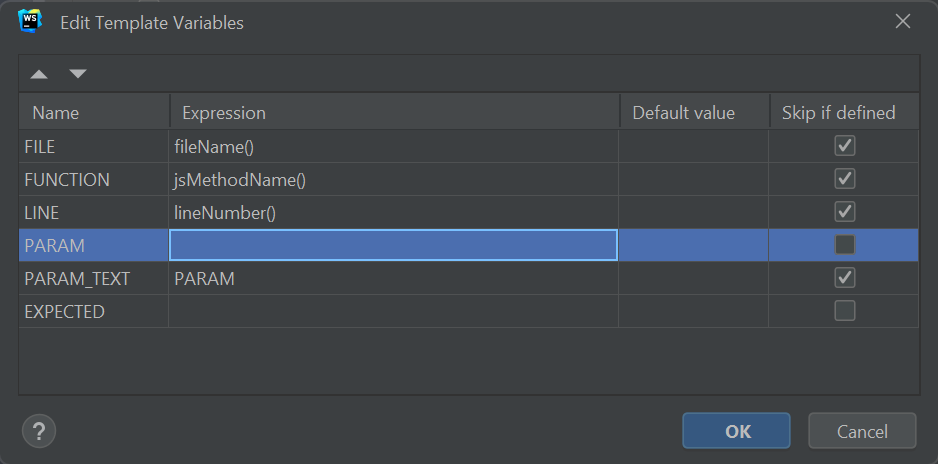
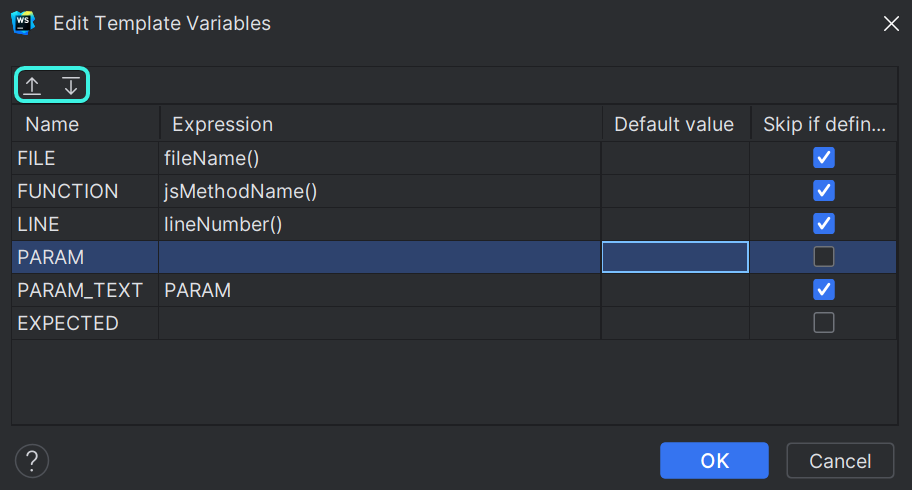
feat: 1a update to 515

diff --git a/src/content/2/en/part2a.md b/src/content/2/en/part2a.md
@@ -7,33 +7,37 @@ lang: en
 
 <div class="content">
 
-Before starting a new part, let's recap some of the topics that proved difficult last year.
+Before starting a new part, let's add some additional tools to our IDE and quickly remind ourselves about arrays and event handlers.
+For now you can continue by opening up the previous lab that we used in part 1.
 
-### Pro-tip: WebStorm Live Templates
+### New Tool: WebStorm Live Templates
 
-With WebStorm it's easy to create and 'live templates', i.e., shortcuts/snippets
+With WebStorm it's easy to create and ***live templates***, i.e., shortcuts/snippets
 for quickly generating commonly re-used portions of code, much like how `sout` works in NetBeans and `psvm` works in IntelliJ.
 
 **Try erasing everything in *App.jsx*, then type `rsc` and then hit the *Tab* key and see the magic that appears!**
 
 Instructions for working with live templates can be found [here](https://blog.jetbrains.com/webstorm/2018/01/using-and-creating-code-snippets/#work_with_live_templates).
+The main idea is that in certain contexts, you would be able to type a shortcut, and WebStorm will provide you with some code that you would normally write.
 
 There are already lots of live templates that are available for you to review in ***Settings->Editor->Live Templates***.
+Specifically, you can find the ***rsc*** template in the React section.
+You should also peruse the React hooks section to see things like *useState*.
 
-Another live template for the `console.log()` command, which is, **log**.
+One popular live template/shortcut is **`log`**, which replaces having to type out `console.log()`.
 
-To use it, type `log` and hit Tab to autocomplete.
+To use it, type `log` and hit ***Tab*** to autocomplete.
 
-Though it doesn't stop there, as you can make *custom live templates*.
+Though it doesn't stop there, as you can make **custom live templates**.
 
 For example, I'm going to take
 [this tutorial](https://betterprogramming.pub/intellij-live-template-for-console-log-that-will-improve-your-daily-development-life-ef1320a8fe81)
-and boil it down to its essence.
+and reduce it to its essence and apply it to our new template.
 
 Let's setup a custom `clog` live template.
 
 1. Go to ***Settings->Editor->Live Templates***
-2. With Javascript Selected, click on the `+` icon.
+2. With Javascript Selected, click on the `+` icon, and select *1 Live Template*
 3. Type `clog` for the Abbreviation and `More detailed console.log` for the Description
 4. Paste this in the template text:
 
@@ -43,19 +47,24 @@ Let's setup a custom `clog` live template.
 
 5. Select ***Reformat according to style***
 6. Click the Define link below the template text and select ***Javascript & Typescript***.
-7. Finally click edit variables and make it looks like this, make sure you have the order of the variables as well.
+7. Finally, click edit variables and make it looks like this, make sure you have the order of the variables as well, where `PARAM` comes first.
+    1. Use the up and down buttons highlighted to move the sequence of the variables.
 
 ![image showing the variables and values](../../images/2/custom/live_template_variables.png)
 
-Click ***OK*** twice and then try it out by typing `clog` and then ***Tab***.
+Click ***OK*** twice and then try it out by typing `clog` inside your `App` Javascript function and then ***Tab***.
+Then type the name of the variable `props` (or whatever other variable you have) and Tab again.
+You should notice that it will display the word you typed in two places on that line.
+First, the name that shows up in log statement and then as the variable to print.
+Finally, if you have some expected value of what you think it should be at that point, you can type that in as well, and then ***Tab*** one last time.
 You'll notice that you have this template that will provide you with a function name and line number
 as well as other neat values to make it easier to debug!
 
 ### JavaScript Arrays
 
-From here on out, we will be using the functional programming methods of the JavaScript
-[array](https://developer.mozilla.org/en-US/docs/Web/JavaScript/Reference/Global_Objects/Array),
-such as `find`, `filter`, and `map` - all of the time.
+From here on out, we will be using JavaScript's functional programming conventions (e.g. `find`, `filter`, and `map`) for
+[**Arrays**](https://developer.mozilla.org/en-US/docs/Web/JavaScript/Reference/Global_Objects/Array),
+all of the time.
 They operate on the same general principles as their equivalents in other languages and as streams in Java.
 
 If operating arrays with functional operators makes you feel uneasy, it is worth watching at least the first three parts of the YouTube video series
@@ -133,10 +142,14 @@ ReactDOM.createRoot(document.getElementById('root')).render(
 )
 ```
 
-Every task contains its textual content and a timestamp,
-as well as a `boolean` value for marking whether the task has been categorized as important or not, and also a unique `id`.
+Every task contains:
 
-The example above works because there are exactly three tasks in the array.
+- a unique `id`.
+- *`content`* describing the task
+- a *`date`*,
+- a boolean for marking whether the task is `important`
+
+The example above works only because there are exactly three tasks in the array.
 
 A single task is rendered by accessing the objects in the array by referring to a hard-coded index number:
 
@@ -208,13 +221,16 @@ const App = (props) => {
 
 ### Key-attribute
 
-Even though the application seems to be working, there is a warning in the console:
+Even though the application seems to be working, there is a warning in both WebStorm:
+
+![WebStorm key prop error](../../images/2/1a_webstorm.png)
+
+and the console:
 
 ![unique key prop console error](../../images/2/1a.png)
 
 As the linked [React page](https://react.dev/learn/rendering-lists#keeping-list-items-in-order-with-key) in the error message suggests;
 the list items, i.e. the elements generated by the `map` method, must each have a unique key value: an attribute called **key**.
-> **FYI:** *You may have also noticed that ESLint had underlined the `li` element in WebStorm as well, mentioning the missing 'key' prop.*
 
 Let's add the keys:
 
@@ -280,9 +296,9 @@ const result = tasks.map(task => task.id)
 console.log(result)
 ```
 
-`[1, 2, 3]`  will be printed to the console.
- `map` always creates a new array, the elements of which have been created from the elements of the original array by ***mapping***:
- using the function given as a parameter to the `map` method.
+An array `[1, 2, 3]`  will be viewable in the console.
+`map` always creates a new array, the elements of which have been created from the elements of the original array by ***mapping***:
+using the function given as a parameter to the `map` method.
 
 The function in our example is:
 
@@ -307,7 +323,7 @@ Changing our `map` line to have the parameter:
 const result = tasks.map(task => task.content)
 ```
 
-results in the console printing *`['Wash the dishes', 'Take out the trash', 'Buy salty snacks']`*.
+results in the console containing the array *`['Wash the dishes', 'Take out the trash', 'Buy salty snacks']`*.
 
 This is already pretty close to the React code we used:
 
@@ -328,7 +344,8 @@ task => <li key={task.id}>{task.content}</li>
 ```
 
 is used to create view elements, the value of the variable must be rendered inside curly braces.
-Try to see what happens if the braces are removed.
+***What happens if one or more of the braces are removed?***
+Play around with removing and re-adding braces for the task in *App.jsx*.
 
 The use of curly braces will cause some pain in the beginning, but you will get used to them soon enough.
 The visual feedback from React is immediate.
@@ -356,7 +373,7 @@ As such, one way to define the row generation without getting errors is:
 </ul>
 ```
 
-This is, however, **not recommended** and can create undesired problems even if it seems to be working just fine.
+This is, however, 🐞 **not recommended** 🐞 and can create undesired problems even if it seems to be working just fine.
 
 Read more about this in [this article](https://robinpokorny.medium.com/index-as-a-key-is-an-anti-pattern-e0349aece318).
 
@@ -413,7 +430,7 @@ const App = ({ tasks }) => {
 }
 ```
 
-Notice that the `key` attribute must now be defined for the `Task` components, and not in the `li` tags like before.
+Notice that the `key` attribute *must now be defined in the `Task` component*, and not in the `li` tags like before.
 
 A whole React application can be written in a single file.
 Although that is, of course, not very practical.
@@ -437,8 +454,9 @@ Let's move our `Task` component into its own module.
 In smaller applications, components are usually placed in a directory called *components*, which is in turn placed within the *src* directory.
 The convention is to name the file after the component.
 
-Now, we'll create a directory called ***components*** for our application and place a file named ***Task.jsx*** inside.
-*Task.jsx* should have the following:
+**Create a directory in *src* called *components* for our *reading* application and place a file named *Task.jsx* inside**.
+If WebStorm asks about adding the file, make sure to check *not to ask again if you haven't done so already*.
+So *reading/src/components/Task.jsx* should have the following:
 
 ```js
 const Task = ({ task }) => {
@@ -464,15 +482,16 @@ const App = ({ tasks }) => {
 }
 ```
 
+You can try typing `import` in the file and then ***Tab*** to see how WebStorm will handle auto-completing the line for you.
 The component exported by the module is now available for use in the variable `Task`, just as it was earlier.
 
 Notice that when importing our own components, their location must be given *in relation to the importing file*:
 
 ```js
-'./components/Task'
+'./components/Task.jsx'
 ```
 
-The period - `.` - in the beginning refers to the current directory,
+The period (`.`) at the start refers to the **current directory**,
 so the module's location is a file called *Task.jsx* in the *components* sub-directory of the current directory.
 The filename extension *.jsx* can be omitted.
 
@@ -486,11 +505,11 @@ The current code is in the branch [part2-1](https://github.com/comp227/part2-tas
 
 ![GitHub branch screenshot](../../images/2/2e.png)
 
-If you clone the project, run the command `npm install` before starting the application with `npm start`.
+> **Remember:** If you clone the project, run the command `npm install` before starting the application with `npm run dev`.
 
-### When the Application Breaks
+### Using console.log
 
-Early in your programming career (and even after 25 years of coding like yours truly),
+Early in your programming career (and even after 25+ years of coding like yours truly),
 what often happens is that the application just completely breaks down.
 This is even more so the case with dynamically typed languages, such as JavaScript, where the compiler does not check the data type.
 Like with function variables or return values.
@@ -499,7 +518,7 @@ A "React explosion" can, for example, look like this:
 
 ![react sample error](../../images/2/3b.png)
 
-In these situations, your best way out is the `console.log` method.
+In these situations, your best way out is to either debug the program via the debugger or commands like `console.log`.
 
 The piece of code causing the explosion is this:
 
@@ -512,7 +531,7 @@ const Company = ({ company }) => (
 
 const App = () => {
   const company = {
-    // ...
+    name: "Sample Company",
   }
 
   return (
